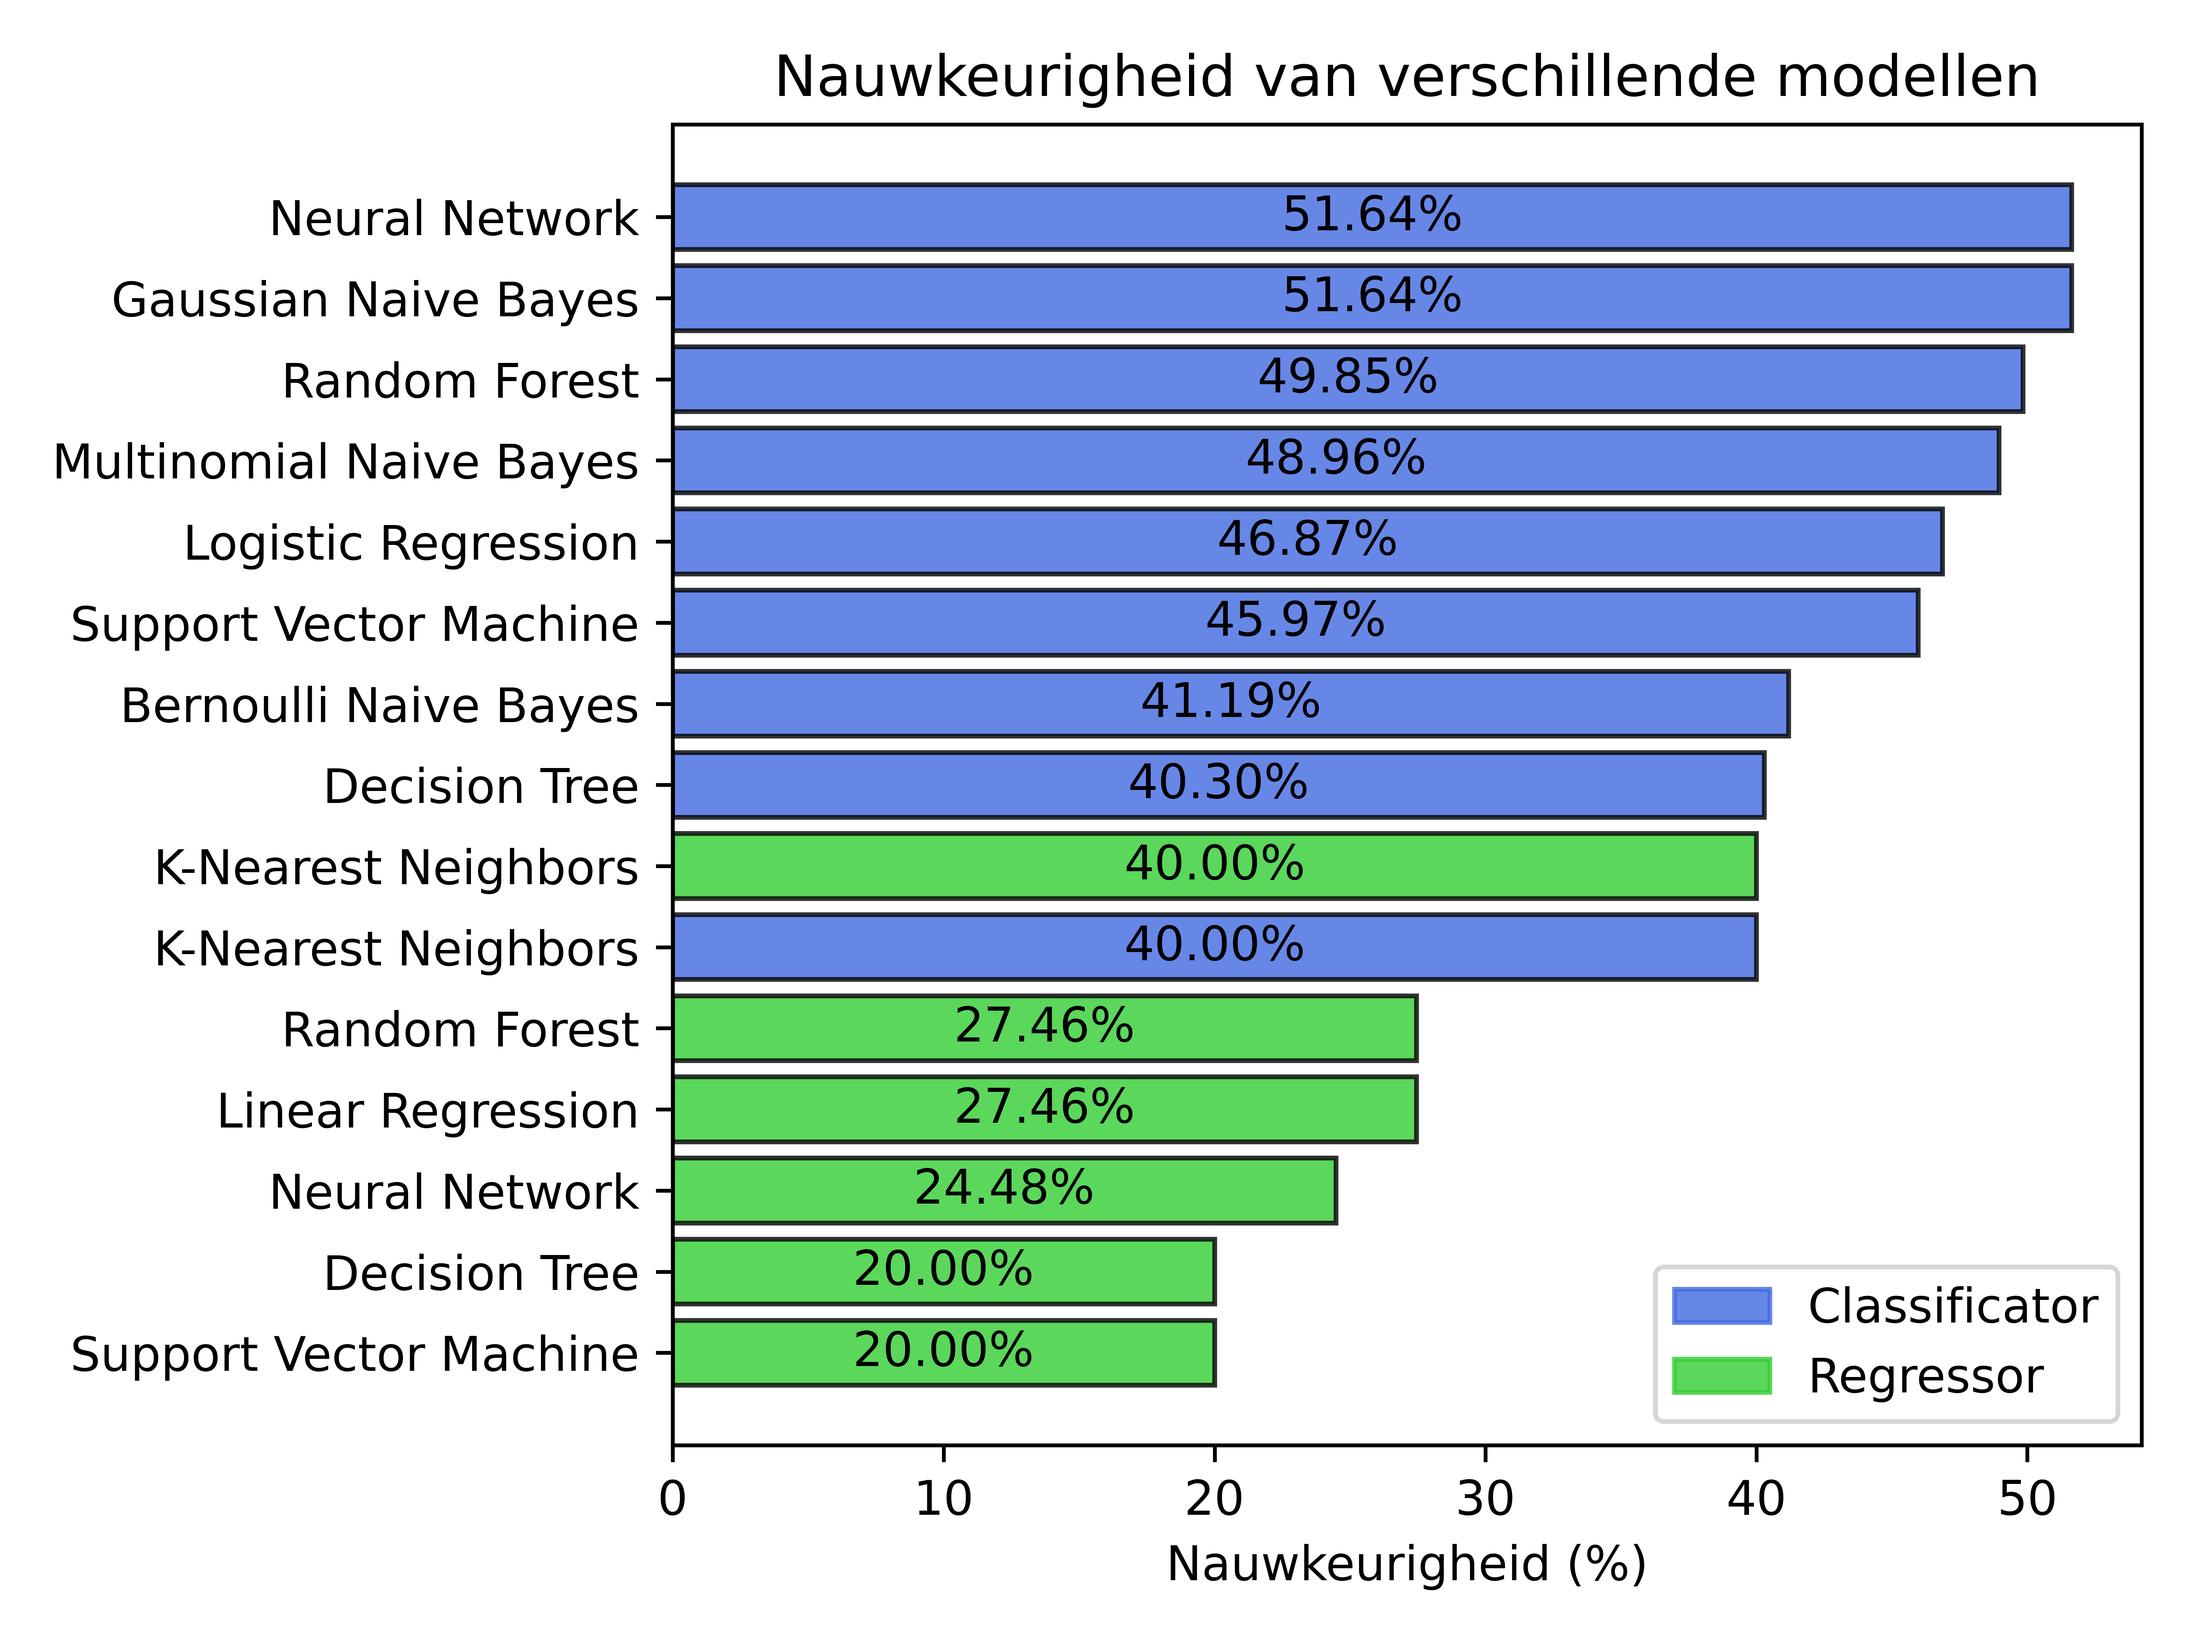
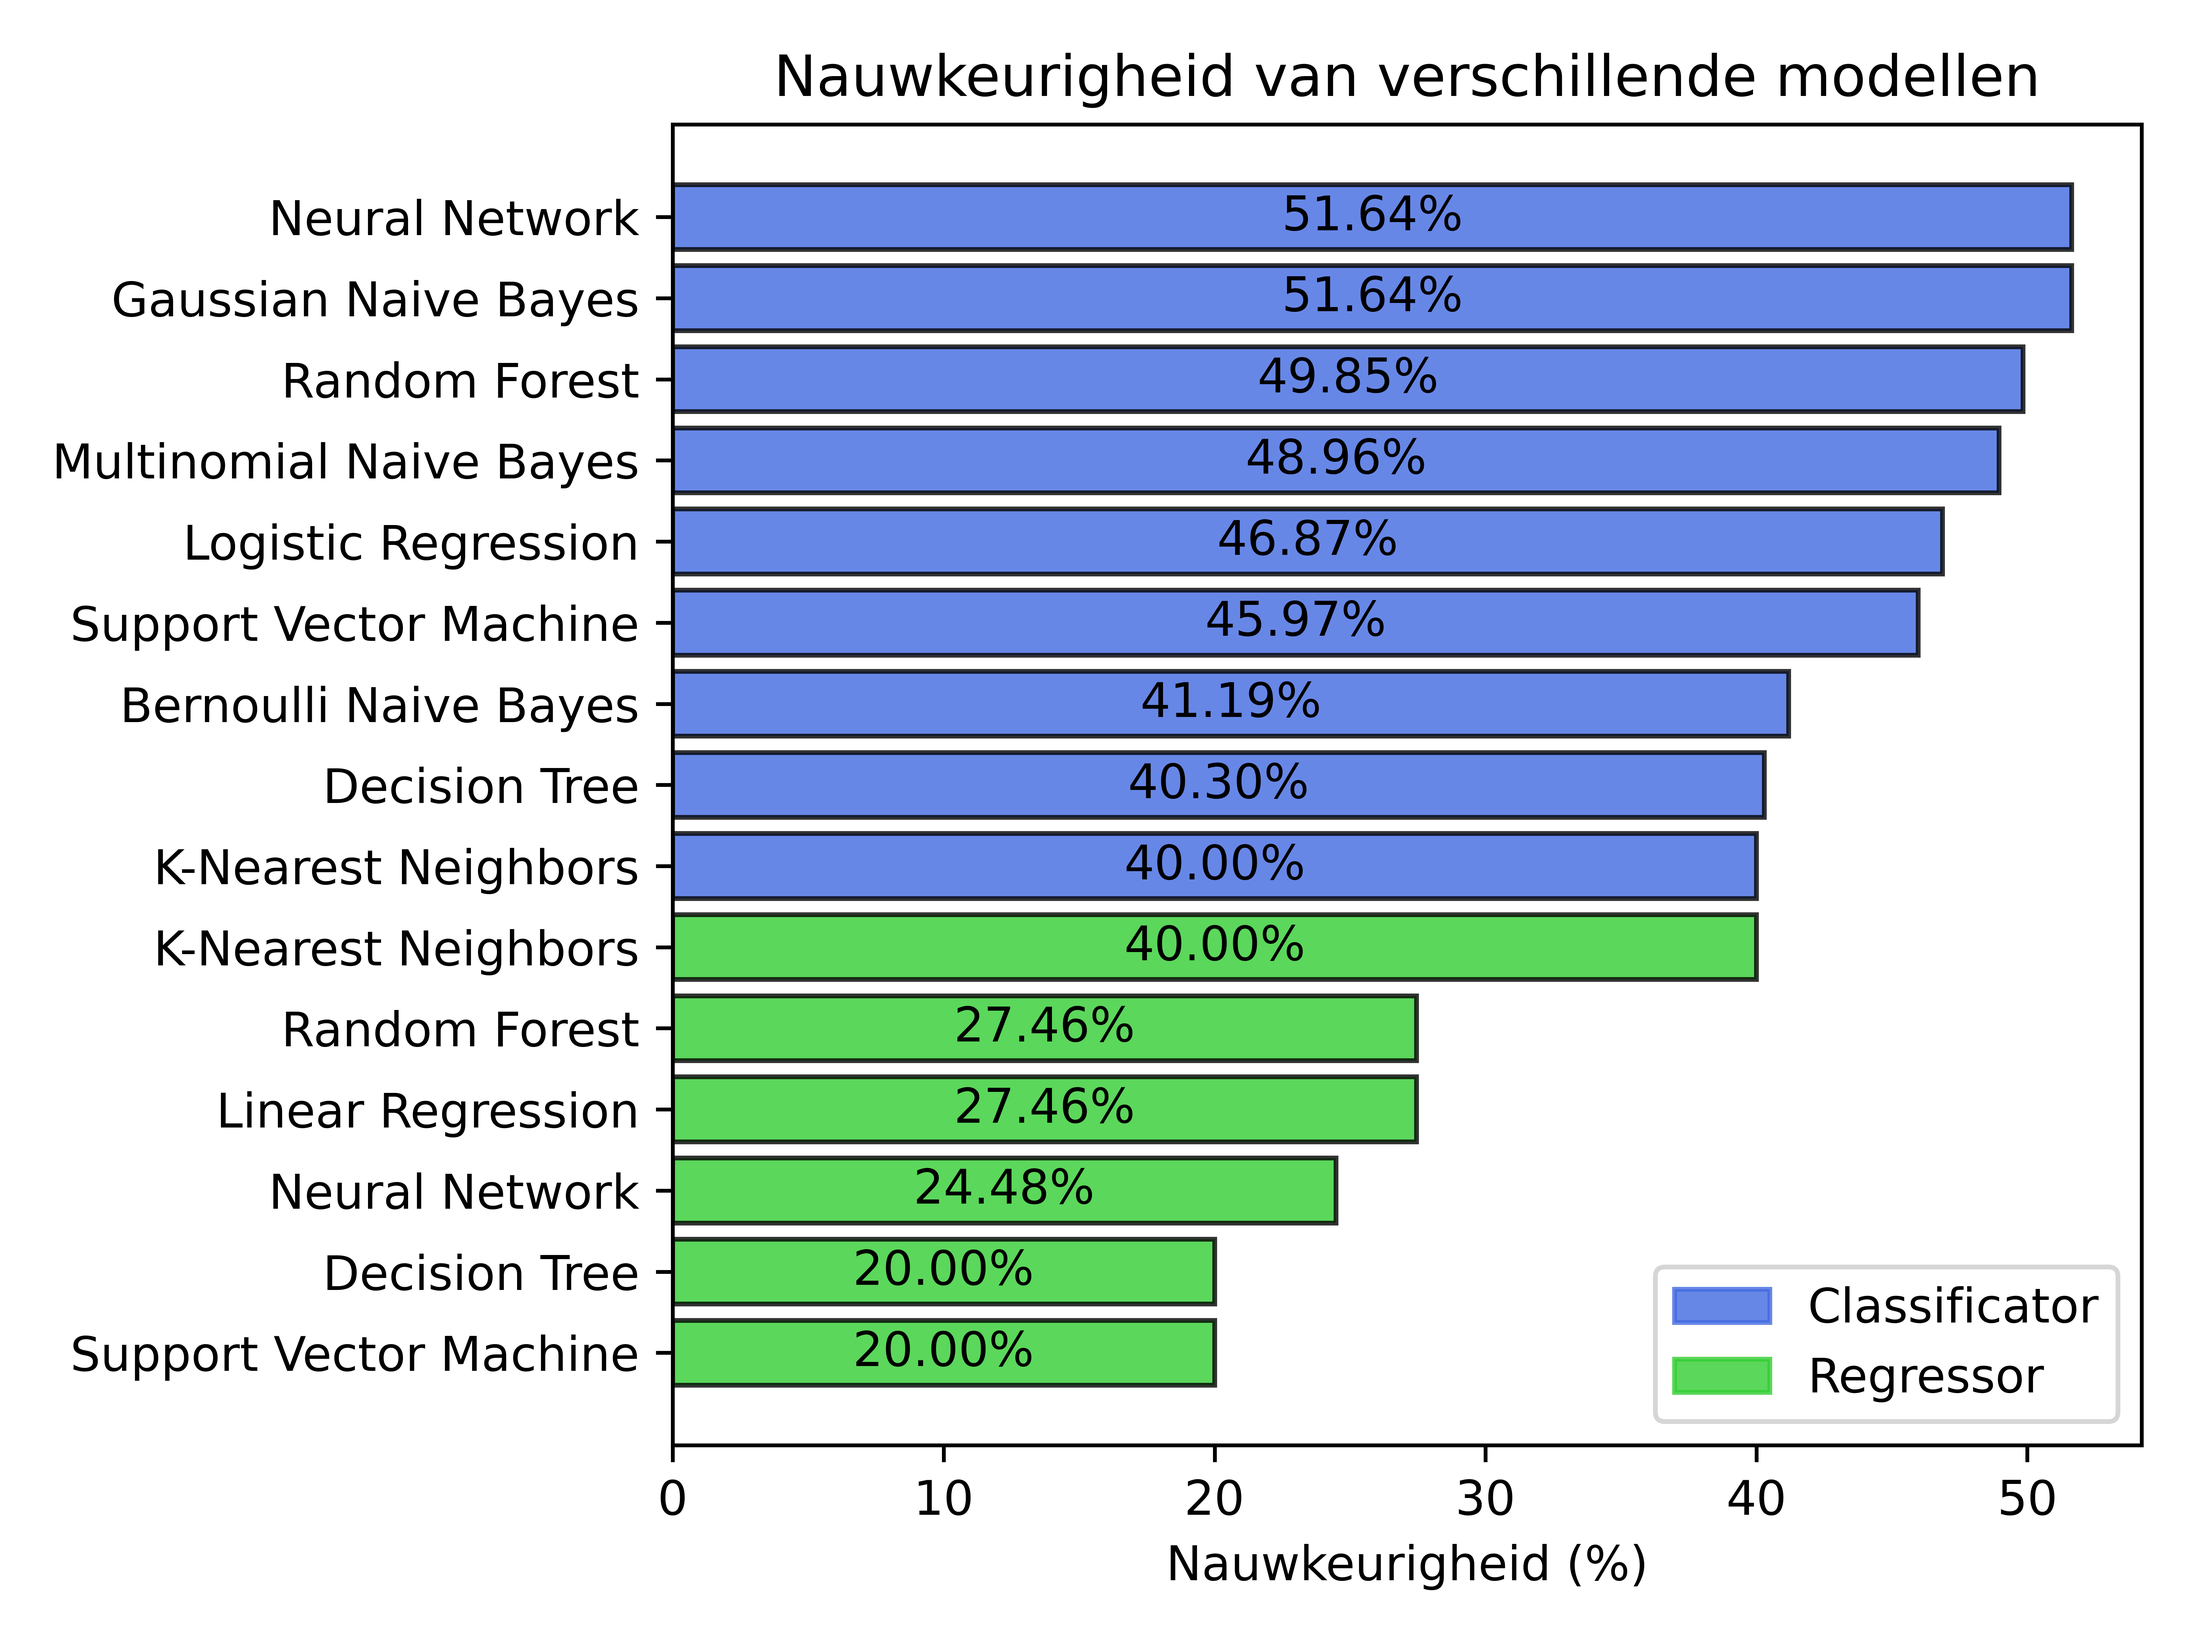
Regressor bar under classifier bar when same accuracy

Changed region(s): [[0.2812, 0.5, 0.8125, 0.5938]]

diff --git a/plot.py b/plot.py
@@ -57,6 +57,7 @@ def plot_bars(data, filename, n, model_type="all"):
     else:
         title = "Nauwkeurigheid van verschillende modellen"
 
+    data = data.sort_values(by="type", ascending=False)
     data = data.sort_values(by="accuracy", ascending=True)
     colors = ["royalblue" if row["type"] == "classification" else "limegreen"
               for (_, row) in data.iterrows()]
@@ -147,6 +148,7 @@ def main():
             plot_bars(data, filename, n)
             plot_bars(data, filename, n, model_type="classification")
             plot_bars(data, filename, n, model_type="regression")
+            print("Plotted bar charts")
     elif sys.argv[1] == "--lc":
         if len(sys.argv) < 3:
             print("Usage: python plot.py --lc <n> [file]")
